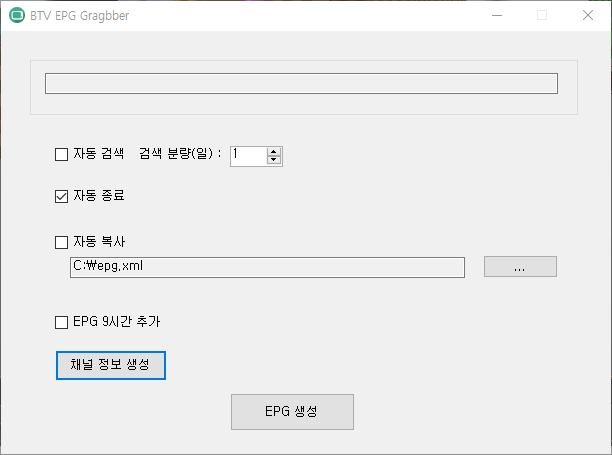
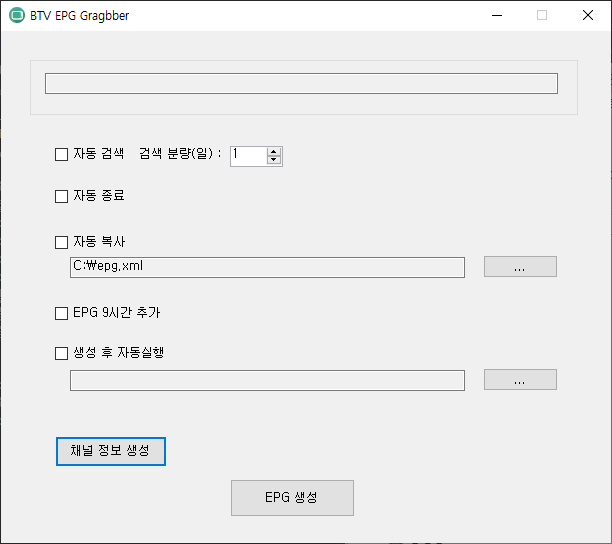
생성 후 실행 옵션 추가

diff --git a/BtvEpgGrabber/Form1.Designer.cs b/BtvEpgGrabber/Form1.Designer.cs
@@ -41,13 +41,16 @@
             this.numericUpDownDay = new System.Windows.Forms.NumericUpDown();
             this.label3 = new System.Windows.Forms.Label();
             this.textBoxCopyPath = new System.Windows.Forms.TextBox();
+            this.checkBoxRun = new System.Windows.Forms.CheckBox();
+            this.textBoxRun = new System.Windows.Forms.TextBox();
+            this.buttonSelectPathRun = new System.Windows.Forms.Button();
             this.groupBox1.SuspendLayout();
             ((System.ComponentModel.ISupportInitialize)(this.numericUpDownDay)).BeginInit();
             this.SuspendLayout();
             // 
             // MakeChannelBtn
             // 
-            this.MakeChannelBtn.Location = new System.Drawing.Point(54, 319);
+            this.MakeChannelBtn.Location = new System.Drawing.Point(54, 405);
             this.MakeChannelBtn.Name = "MakeChannelBtn";
             this.MakeChannelBtn.Size = new System.Drawing.Size(112, 31);
             this.MakeChannelBtn.TabIndex = 0;
@@ -57,7 +60,7 @@
             // 
             // buttonMakeEpg
             // 
-            this.buttonMakeEpg.Location = new System.Drawing.Point(229, 362);
+            this.buttonMakeEpg.Location = new System.Drawing.Point(229, 448);
             this.buttonMakeEpg.Name = "buttonMakeEpg";
             this.buttonMakeEpg.Size = new System.Drawing.Size(125, 38);
             this.buttonMakeEpg.TabIndex = 1;
@@ -128,7 +131,7 @@
             // checkBoxAddTime
             // 
             this.checkBoxAddTime.AutoSize = true;
-            this.checkBoxAddTime.Location = new System.Drawing.Point(54, 284);
+            this.checkBoxAddTime.Location = new System.Drawing.Point(54, 275);
             this.checkBoxAddTime.Name = "checkBoxAddTime";
             this.checkBoxAddTime.Size = new System.Drawing.Size(111, 16);
             this.checkBoxAddTime.TabIndex = 10;
@@ -177,11 +180,43 @@
             this.textBoxCopyPath.TabIndex = 13;
             this.textBoxCopyPath.Text = "C:\\epg.xml";
             // 
+            // checkBoxRun
+            // 
+            this.checkBoxRun.AutoSize = true;
+            this.checkBoxRun.Location = new System.Drawing.Point(54, 315);
+            this.checkBoxRun.Name = "checkBoxRun";
+            this.checkBoxRun.Size = new System.Drawing.Size(116, 16);
+            this.checkBoxRun.TabIndex = 14;
+            this.checkBoxRun.Text = "생성 후 자동실행";
+            this.checkBoxRun.UseVisualStyleBackColor = true;
+            this.checkBoxRun.CheckedChanged += new System.EventHandler(this.checkBox_CheckedChanged);
+            // 
+            // textBoxRun
+            // 
+            this.textBoxRun.Location = new System.Drawing.Point(69, 339);
+            this.textBoxRun.Name = "textBoxRun";
+            this.textBoxRun.ReadOnly = true;
+            this.textBoxRun.Size = new System.Drawing.Size(395, 21);
+            this.textBoxRun.TabIndex = 16;
+            // 
+            // buttonSelectPathRun
+            // 
+            this.buttonSelectPathRun.Location = new System.Drawing.Point(482, 337);
+            this.buttonSelectPathRun.Name = "buttonSelectPathRun";
+            this.buttonSelectPathRun.Size = new System.Drawing.Size(75, 23);
+            this.buttonSelectPathRun.TabIndex = 15;
+            this.buttonSelectPathRun.Text = "...";
+            this.buttonSelectPathRun.UseVisualStyleBackColor = true;
+            this.buttonSelectPathRun.Click += new System.EventHandler(this.buttonSelectPathRun_Click);
+            // 
             // Form1
             // 
             this.AutoScaleDimensions = new System.Drawing.SizeF(7F, 12F);
             this.AutoScaleMode = System.Windows.Forms.AutoScaleMode.Font;
-            this.ClientSize = new System.Drawing.Size(610, 423);
+            this.ClientSize = new System.Drawing.Size(610, 512);
+            this.Controls.Add(this.textBoxRun);
+            this.Controls.Add(this.buttonSelectPathRun);
+            this.Controls.Add(this.checkBoxRun);
             this.Controls.Add(this.textBoxCopyPath);
             this.Controls.Add(this.label3);
             this.Controls.Add(this.numericUpDownDay);
@@ -221,6 +256,9 @@
         private System.Windows.Forms.NumericUpDown numericUpDownDay;
         private System.Windows.Forms.Label label3;
         private System.Windows.Forms.TextBox textBoxCopyPath;
+        private System.Windows.Forms.CheckBox checkBoxRun;
+        private System.Windows.Forms.TextBox textBoxRun;
+        private System.Windows.Forms.Button buttonSelectPathRun;
     }
 }
 

diff --git a/BtvEpgGrabber/Form1.cs b/BtvEpgGrabber/Form1.cs
@@ -1,5 +1,6 @@
 using System;
 using System.Collections.Generic;
+using System.Diagnostics;
 using System.IO;
 using System.Net;
 using System.Text;
@@ -58,7 +59,14 @@ namespace BtvEpgGrabber
             string daystr = mIni.IniReadValue("Config", numericUpDownDay.Name);
             numericUpDownDay.Value = daystr.Length == 0 ? 1 : Convert.ToInt32(daystr);
 
+            //Run after Generates
+            if (mIni.IniReadValue("Config", checkBoxRun.Name) == "true")
+                checkBoxRun.Checked = true;
 
+            string RunPath = mIni.IniReadValue("Config", textBoxRun.Name);
+
+            if (RunPath != null && RunPath.Length > 0)
+                textBoxRun.Text = RunPath;
         }
 
         private void MakeChannelBtn_Click(object sender, EventArgs e)
@@ -179,6 +187,15 @@ namespace BtvEpgGrabber
                     file.CopyTo(textBoxCopyPath.Text, true);
 
                     AppendLog("자동 복사 완료");
+                }
+            }
+
+            if (checkBoxRun.Checked == true)
+            {
+                FileInfo file = new FileInfo(mIni.IniReadValue("Config", textBoxRun.Name));
+                if (file.Exists)
+                {
+                    Process.Start(file.FullName);
                 }
             }
 
@@ -306,6 +323,22 @@ namespace BtvEpgGrabber
         private void numericUpDownDay_ValueChanged(object sender, EventArgs e)
         {
             mIni.IniWriteValue("Config", numericUpDownDay.Name, numericUpDownDay.Value.ToString());
+        }
+
+        private void buttonSelectPathRun_Click(object sender, EventArgs e)
+        {
+            string fileName;
+            OpenFileDialog openFileDialog = new OpenFileDialog();
+            openFileDialog.Title = "실행 파일을 선택하세요.";
+            openFileDialog.Filter = "All File(*.*)|*.*";
+
+            if (openFileDialog.ShowDialog() == DialogResult.OK)
+            {
+                fileName = openFileDialog.FileName;
+
+                mIni.IniWriteValue("Config", textBoxRun.Name, fileName);
+                textBoxRun.Text = fileName;
+            }
         }
     }
 }
